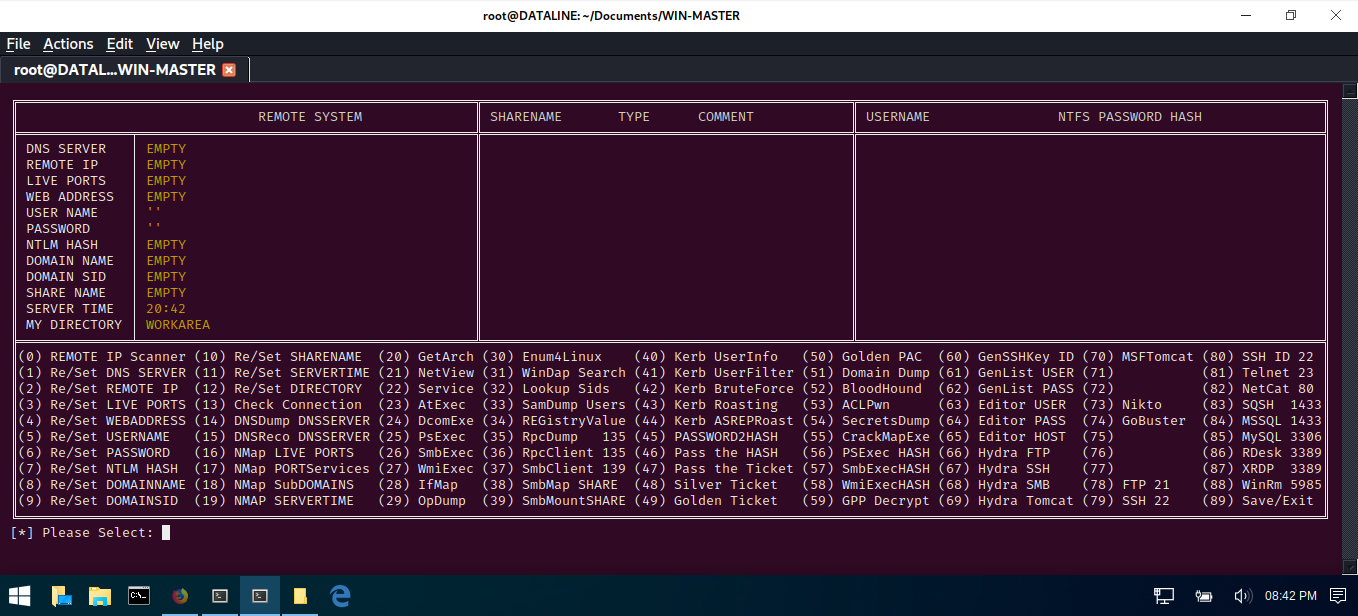
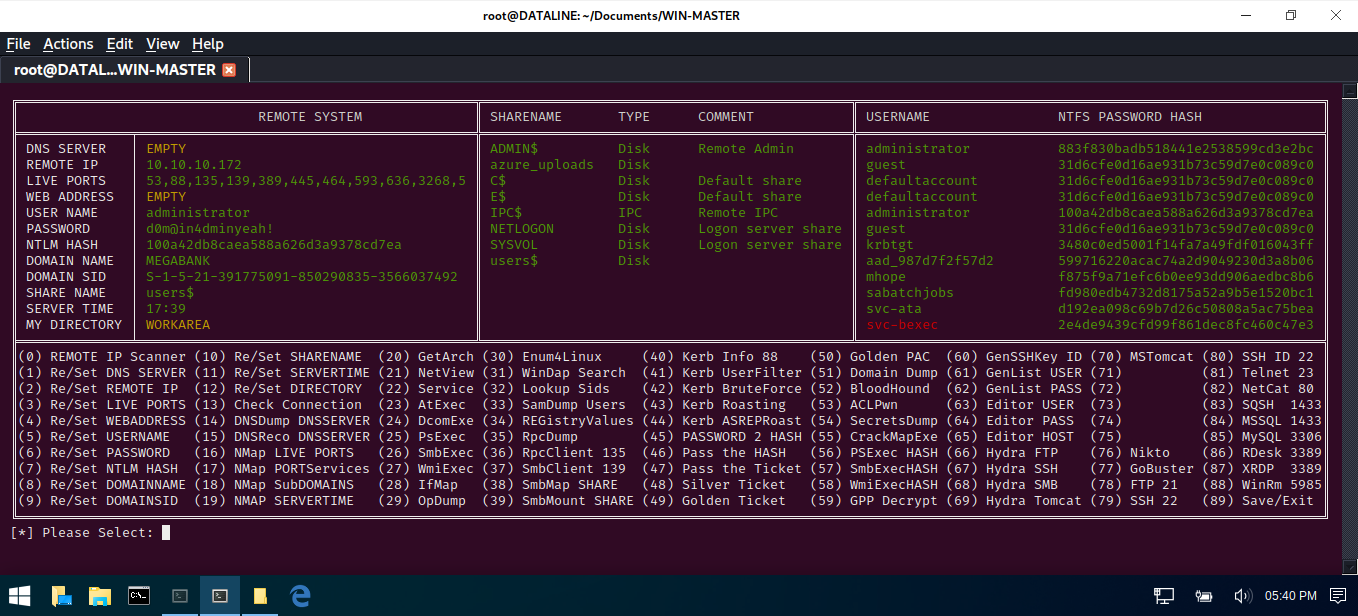
ff2d0161b4e26a687fd2f0c24b7b35ec

diff --git a/WinMaster.py b/WinMaster.py
@@ -286,16 +286,16 @@ def display():
    print('\u2560' + ('\u2550')*14 + '\u2567'+ ('\u2550')*42 + '\u2569' + ('\u2550')*25 + '\u2550' + ('\u2550')*20 + '\u2569' + ('\u2550')*58 + '\u2563')
 
 def options():
-   print('\u2551' + "(0) REMOTE IP Scanner (10) Re/Set SHARENAME  (20) GetArch (30) Enum4Linux    (40) Kerb UserInfo   (50) Golden PAC  (60) GenSSHKey ID (70) MSFTomcat (80) SSH ID 22 " + '\u2551')
-   print('\u2551' + "(1) Re/Set DNS SERVER (11) Re/Set SERVERTIME (21) NetView (31) WinDap Search (41) Kerb UserFilter (51) Domain Dump (61) GenList USER (71)           (81) Telnet 23 " + '\u2551')
-   print('\u2551' + "(2) Re/Set REMOTE IP  (12) Re/Set DIRECTORY  (22) Service (32) Lookup Sids   (42) Kerb BruteForce (52) BloodHound  (62) GenList PASS (72)           (82) NetCat 80 " + '\u2551')
-   print('\u2551' + "(3) Re/Set LIVE PORTS (13) Check Connection  (23) AtExec  (33) SamDump Users (43) Kerb Roasting   (53) ACLPwn      (63) Editor USER  (73) Nikto     (83) SQSH  1433" + '\u2551')
-   print('\u2551' + "(4) Re/Set WEBADDRESS (14) DNSDump DNSSERVER (24) DcomExe (34) REGistryValue (44) Kerb ASREPRoast (54) SecretsDump (64) Editor PASS  (74) GoBuster  (84) MSSQL 1433" + '\u2551')
-   print('\u2551' + "(5) Re/Set USERNAME   (15) DNSReco DNSSERVER (25) PsExec  (35) RpcDump   135 (45) PASSWORD2HASH   (55) CrackMapExe (65) Editor HOST  (75)           (85) MySQL 3306" + '\u2551')
-   print('\u2551' + "(6) Re/Set PASSWORD   (16) NMap LIVE PORTS   (26) SmbExec (36) RpcClient 135 (46) Pass the HASH   (56) PSExec HASH (66) Hydra FTP    (76)           (86) RDesk 3389" + '\u2551')
-   print('\u2551' + "(7) Re/Set NTLM HASH  (17) NMap PORTServices (27) WmiExec (37) SmbClient 139 (47) Pass the Ticket (57) SmbExecHASH (67) Hydra SSH    (77)           (87) XRDP  3389" + '\u2551')
-   print('\u2551' + "(8) Re/Set DOMAINNAME (18) NMap SubDOMAINS   (28) IfMap   (38) SmbMap SHARE  (48) Silver Ticket   (58) WmiExecHASH (68) Hydra SMB    (78) FTP 21    (88) WinRm 5985" + '\u2551')
-   print('\u2551' + "(9) Re/Set DOMAINSID  (19) NMAP SERVERTIME   (29) OpDump  (39) SmbMountSHARE (49) Golden Ticket   (59) GPP Decrypt (69) Hydra Tomcat (79) SSH 22    (89) Save/Exit " + '\u2551')
+   print('\u2551' + "(0) REMOTE IP Scanner (10) Re/Set SHARENAME  (20) GetArch (30) Enum4Linux     (40) Kerb Info 88    (50) Golden PAC  (60) GenSSHKey ID (70) MSTomcat (80) SSH ID 22 " + '\u2551')
+   print('\u2551' + "(1) Re/Set DNS SERVER (11) Re/Set SERVERTIME (21) NetView (31) WinDap Search  (41) Kerb UserFilter (51) Domain Dump (61) GenList USER (71)          (81) Telnet 23 " + '\u2551')
+   print('\u2551' + "(2) Re/Set REMOTE IP  (12) Re/Set DIRECTORY  (22) Service (32) Lookup Sids    (42) Kerb BruteForce (52) BloodHound  (62) GenList PASS (72)          (82) NetCat 80 " + '\u2551')
+   print('\u2551' + "(3) Re/Set LIVE PORTS (13) Check Connection  (23) AtExec  (33) SamDump Users  (43) Kerb Roasting   (53) ACLPwn      (63) Editor USER  (73)          (83) SQSH  1433" + '\u2551')
+   print('\u2551' + "(4) Re/Set WEBADDRESS (14) DNSDump DNSSERVER (24) DcomExe (34) REGistryValues (44) Kerb ASREPRoast (54) SecretsDump (64) Editor PASS  (74)          (84) MSSQL 1433" + '\u2551')
+   print('\u2551' + "(5) Re/Set USERNAME   (15) DNSReco DNSSERVER (25) PsExec  (35) RpcDump        (45) PASSWORD 2 HASH (55) CrackMapExe (65) Editor HOST  (75)          (85) MySQL 3306" + '\u2551')
+   print('\u2551' + "(6) Re/Set PASSWORD   (16) NMap LIVE PORTS   (26) SmbExec (36) RpcClient 135  (46) Pass the HASH   (56) PSExec HASH (66) Hydra FTP    (76) Nikto    (86) RDesk 3389" + '\u2551')
+   print('\u2551' + "(7) Re/Set NTLM HASH  (17) NMap PORTServices (27) WmiExec (37) SmbClient 139  (47) Pass the Ticket (57) SmbExecHASH (67) Hydra SSH    (77) GoBuster (87) XRDP  3389" + '\u2551')
+   print('\u2551' + "(8) Re/Set DOMAINNAME (18) NMap SubDOMAINS   (28) IfMap   (38) SmbMap SHARE   (48) Silver Ticket   (58) WmiExecHASH (68) Hydra SMB    (78) FTP 21   (88) WinRm 5985" + '\u2551')
+   print('\u2551' + "(9) Re/Set DOMAINSID  (19) NMAP SERVERTIME   (29) OpDump  (39) SmbMount SHARE (49) Golden Ticket   (59) GPP Decrypt (69) Hydra Tomcat (79) SSH 22   (89) Save/Exit " + '\u2551')
    print('\u255A' + ('\u2550')*163 + '\u255D')
 
 # -------------------------------------------------------------------------------------
@@ -1177,7 +1177,7 @@ while True:
          command("enum4linux -u " + USR.rstrip(" ") + " -p " + PAS.rstrip(" ") + " -v " + TIP.rstrip(" "))
       prompt()
 
-#------------------------------------------------------------------------------------- 
+# ------------------------------------------------------------------------------------- 
 # AUTHOR  : Terence Broadbent                                                    
 # CONTRACT: GitHub
 # Version : ENDGAMES
@@ -1887,7 +1887,7 @@ while True:
          command("ls -la ./" + DIR.rstrip(" "))
       prompt()
       
-#------------------------------------------------------------------------------------- 
+# ------------------------------------------------------------------------------------- 
 # AUTHOR  : Terence Broadbent                                                    
 # CONTRACT: GitHub
 # Version : ENDGAMES
@@ -2129,7 +2129,7 @@ while True:
          command(PATH + "wmiexec.py -hashes :" + NTM.rstrip("\n") + " " + USR.rstrip(" ") + "@" + TIP.rstrip(" "))
       prompt()     
 
-#------------------------------------------------------------------------------------- 
+# ------------------------------------------------------------------------------------- 
 # AUTHOR  : Terence Broadbent                                                    
 # CONTRACT: GitHub
 # Version : ENDGAMES
@@ -2143,7 +2143,7 @@ while True:
          command("gpp-decrypt " + AES256)
       prompt()
 
-#------------------------------------------------------------------------------------- 
+# ------------------------------------------------------------------------------------- 
 # AUTHOR  : Terence Broadbent                                                    
 # CONTRACT: GitHub
 # Version : ENDGAMES
@@ -2199,7 +2199,7 @@ while True:
             if len(USER[x]) < COL3: USER[x] = padding(USER[x], COL3)
       prompt()
       
-#------------------------------------------------------------------------------------- 
+# ------------------------------------------------------------------------------------- 
 # AUTHOR  : Terence Broadbent                                                    
 # CONTRACT: GitHub
 # Version : ENDGAMES
@@ -2230,7 +2230,7 @@ while True:
             print("[+] Adding NCrack minimal.usr list as well...")
       prompt()
 
-#------------------------------------------------------------------------------------- 
+# ------------------------------------------------------------------------------------- 
 # AUTHOR  : Terence Broadbent                                                    
 # CONTRACT: GitHub
 # Version : ENDGAMES
@@ -2245,7 +2245,7 @@ while True:
          if len(USER[x]) < COL3: USER[x] = padding(USER[x], COL3)
       prompt()
       
-#------------------------------------------------------------------------------------- 
+# ------------------------------------------------------------------------------------- 
 # AUTHOR  : Terence Broadbent                                                    
 # CONTRACT: GitHub
 # Version : ENDGAMES
@@ -2257,7 +2257,7 @@ while True:
       command("nano passwords.txt")
       prompt()
 
-#------------------------------------------------------------------------------------- 
+# ------------------------------------------------------------------------------------- 
 # AUTHOR  : Terence Broadbent                                                    
 # CONTRACT: GitHub
 # Version : ENDGAMES
@@ -2269,7 +2269,7 @@ while True:
       command("nano /etc/hosts")
       prompt()
             
-#------------------------------------------------------------------------------------- 
+# ------------------------------------------------------------------------------------- 
 # AUTHOR  : Terence Broadbent                                                    
 # CONTRACT: GitHub
 # Version : ENDGAMES
@@ -2311,7 +2311,7 @@ while True:
             
       prompt() 
       
-#------------------------------------------------------------------------------------- 
+# ------------------------------------------------------------------------------------- 
 # AUTHOR  : Terence Broadbent                                                    
 # CONTRACT: GitHub
 # Version : ENDGAMES
@@ -2353,7 +2353,7 @@ while True:
             
       prompt()
 
-#------------------------------------------------------------------------------------- 
+# ------------------------------------------------------------------------------------- 
 # AUTHOR  : Terence Broadbent                                                    
 # CONTRACT: GitHub
 # Version : ENDGAMES
@@ -2395,7 +2395,7 @@ while True:
             
       prompt() 
 
-#------------------------------------------------------------------------------------- 
+# ------------------------------------------------------------------------------------- 
 # AUTHOR  : Terence Broadbent                                                    
 # CONTRACT: GitHub
 # Version : ENDGAMES
@@ -2436,7 +2436,7 @@ while True:
             
       prompt()
       
-#------------------------------------------------------------------------------------- 
+# ------------------------------------------------------------------------------------- 
 # AUTHOR  : Terence Broadbent                                                    
 # CONTRACT: GitHub
 # Version : ENDGAMES
@@ -2467,7 +2467,7 @@ while True:
       prompt() 
       os.remove("meterpreter.rc")      
       
-#------------------------------------------------------------------------------------- 
+# ------------------------------------------------------------------------------------- 
 # AUTHOR  : Terence Broadbent                                                    
 # CONTRACT: GitHub
 # Version : ENDGAMES
@@ -2478,7 +2478,7 @@ while True:
    if selection =='71':
       exit(1)  
       
- #------------------------------------------------------------------------------------- 
+# ------------------------------------------------------------------------------------- 
 # AUTHOR  : Terence Broadbent                                                    
 # CONTRACT: GitHub
 # Version : ENDGAMES
@@ -2488,8 +2488,41 @@ while True:
 
    if selection =='72':
       exit(1)          
+
+# ------------------------------------------------------------------------------------- 
+# AUTHOR  : Terence Broadbent                                                    
+# CONTRACT: GitHub
+# Version : ENDGAMES
+# Details : Menu option selected - Exit(1)
+# Modified: N/A
+# -------------------------------------------------------------------------------------
+
+   if selection =='73':
+      exit(1)
+
+# ------------------------------------------------------------------------------------- 
+# AUTHOR  : Terence Broadbent                                                    
+# CONTRACT: GitHub
+# Version : ENDGAMES
+# Details : Menu option selected - Exit(1)
+# Modified: N/A
+# -------------------------------------------------------------------------------------
+
+   if selection =='74':
+      exit(1)
       
- #------------------------------------------------------------------------------------- 
+# ------------------------------------------------------------------------------------- 
+# AUTHOR  : Terence Broadbent                                                    
+# CONTRACT: GitHub
+# Version : ENDGAMES
+# Details : Menu option selected - Exit(1)
+# Modified: N/A
+# -------------------------------------------------------------------------------------
+
+   if selection =='75':
+      exit(1)
+      
+# ------------------------------------------------------------------------------------- 
 # AUTHOR  : Terence Broadbent                                                    
 # CONTRACT: GitHub
 # Version : ENDGAMES
@@ -2497,7 +2530,7 @@ while True:
 # Modified: N/A
 # -------------------------------------------------------------------------------------
 
-   if selection =='73':
+   if selection =='76':
       if TIP[:5] == "EMPTY":
          print("\n[-] Remote IP address has not been specified...")
       else:
@@ -2505,9 +2538,9 @@ while True:
             command("nikto -h " + WEB.rstrip(" "))
          else:
             command("nikto -h " + TIP.rstrip(" "))
-      prompt()   
- 
- #------------------------------------------------------------------------------------- 
+      prompt()  
+      
+# ------------------------------------------------------------------------------------- 
 # AUTHOR  : Terence Broadbent                                                    
 # CONTRACT: GitHub
 # Version : ENDGAMES
@@ -2515,7 +2548,7 @@ while True:
 # Modified: N/A
 # -------------------------------------------------------------------------------------
 
-   if selection =='74':
+   if selection =='77':
       if TIP[:5] == "EMPTY":
          print("\n[-] Remote IP address has not been specified...")
       else:
@@ -2528,40 +2561,7 @@ while True:
                command("gobuster dir -r -U " + USR.rstrip(" ") + " -P " + PAS.rstrip(" ") + " -u " + TIP.rstrip(" ") + " -x bak,zip,php,html,pdf,txt,doc,xml -f -w /usr/share/wordlists/dirb/common.txt -t 50")
       prompt()
       
- #------------------------------------------------------------------------------------- 
-# AUTHOR  : Terence Broadbent                                                    
-# CONTRACT: GitHub
-# Version : ENDGAMES
-# Details : Menu option selected - Exit(1)
-# Modified: N/A
-# -------------------------------------------------------------------------------------
-
-   if selection =='75':
-      exit(1)
-      
-#------------------------------------------------------------------------------------- 
-# AUTHOR  : Terence Broadbent                                                    
-# CONTRACT: GitHub
-# Version : ENDGAMES
-# Details : Menu option selected - Exit(1)
-# Modified: N/A
-# -------------------------------------------------------------------------------------
-
-   if selection =='76':
-      exit(1)
-      
-#------------------------------------------------------------------------------------- 
-# AUTHOR  : Terence Broadbent                                                    
-# CONTRACT: GitHub
-# Version : ENDGAMES
-# Details : Menu option selected - Exit(1)
-# Modified: N/A
-# -------------------------------------------------------------------------------------
-
-   if selection =='77':
-      exit(1)
-
-#------------------------------------------------------------------------------------- 
+# ------------------------------------------------------------------------------------- 
 # AUTHOR  : Terence Broadbent                                                    
 # CONTRACT: GitHub
 # Version : ENDGAMES
@@ -2573,7 +2573,6 @@ while True:
       if TIP[:5] != "EMPTY":
          command("ftp " + TIP.rstrip(" ") + " 21")
       prompt()       
-
       
 # ------------------------------------------------------------------------------------- 
 # AUTHOR  : Terence Broadbent                                                    
@@ -2627,7 +2626,7 @@ while True:
          command("nc " + TIP.rstrip(" ") + " 80")
       prompt()
       
-#------------------------------------------------------------------------------------- 
+# ------------------------------------------------------------------------------------- 
 # AUTHOR  : Terence Broadbent                                                    
 # CONTRACT: GitHub
 # Version : ENDGAMES
@@ -2640,7 +2639,7 @@ while True:
          command("sqsh -S " + TIP.rstrip(" ") + " -L user=" + USR.rstrip(" ") + " -L password=" + PAS.rstrip(" "))
       prompt()
 
-#------------------------------------------------------------------------------------- 
+# ------------------------------------------------------------------------------------- 
 # AUTHOR  : Terence Broadbent                                                    
 # CONTRACT: GitHub
 # Version : ENDGAMES
@@ -2656,7 +2655,7 @@ while True:
             command(PATH + "mssqlclient.py " + USR.rstrip(" ") + "@" + TIP.rstrip(" "))
       prompt()
 
-#------------------------------------------------------------------------------------- 
+# ------------------------------------------------------------------------------------- 
 # AUTHOR  : Terence Broadbent                                                    
 # CONTRACT: GitHub
 # Version : ENDGAMES

diff --git a/README.md b/README.md
@@ -5,7 +5,7 @@ Usage: python3 WinMaster.py
 
 | LANGUAGE  | FILENAME         | MD5 Hash                         | Version  |
 |------     |------            | -------                          | ----     |
-| python3   | WinMaster.py     | 547545f4022eff55563ae21e392b07c7 | EndGames |
+| python3   | WinMaster.py     | ff2d0161b4e26a687fd2f0c24b7b35ec | EndGames |
 
 - [x] Requires Impacket (https://github.com/SecureAuthCorp/impacket) to be installed.
 - [x] Requires Evil-WinRm (https://github.com/Hackplayers/evil-winrm) to be installed.
